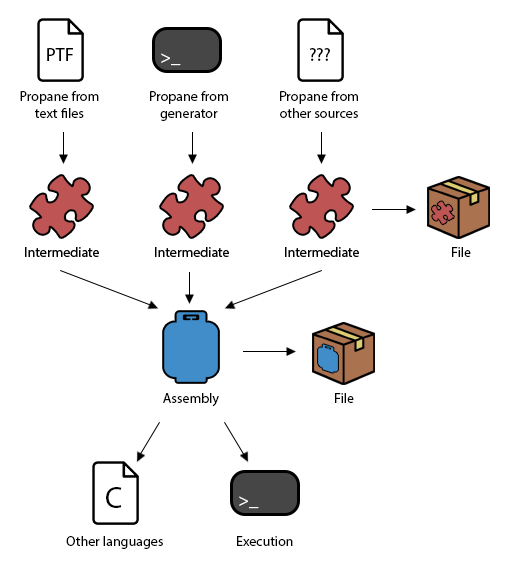
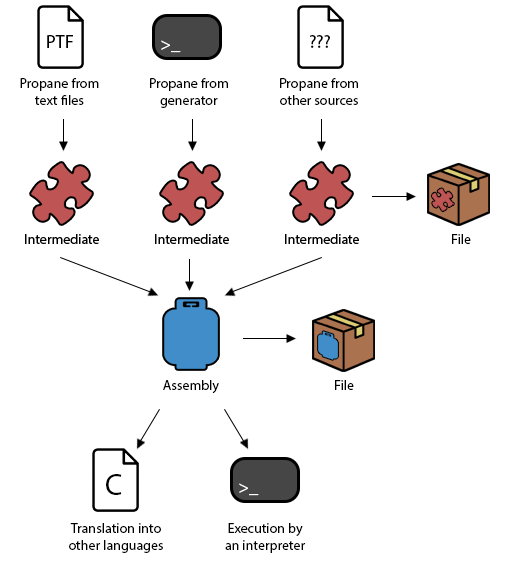
Slight change in readme

diff --git a/README.md b/README.md
@@ -45,7 +45,7 @@ The experimental toolchain is intended to serve as a proof of concept for the in
 
 ![alt text](https://github.com/AggroBird/propane/blob/main/toolchain.png?raw=true "Toolchain Graph Image")
 
-Propane can be parsed from text files or generated by a generator. The resulting intermediate files contain data of defined types/methods and references to declared types/methods. These intermediates can be merged together. The merge implementation is independent, so the merge process between two intermediates can be performed on a seperate thread (at least two intermediates per thread). Additionally, intermediates are implemented as binary blobs, which makes it easy for them to be stored on disk to prevent regeneration of unchanged code.
+Propane can be parsed from text files or generated by a generator. The resulting intermediate files contain data of defined types/methods and references to declared types/methods. These intermediates can be merged together. The merge implementation is independent, so the merge process between two intermediates can be performed on a seperate thread (at least two intermediates per thread). Intermediates are implemented as binary blobs, which makes it easy for them to be stored on disk to prevent regeneration of unchanged code, or stored as a static library for later.
 
 At the end of the merge process, only one intermediate should remain which contains all definitions. Any missing definitions of types/methods will prevent the intermediate to be linked into an assembly. Like intermediates, an assembly is implemented as a binary blob that can be stored on disk as a file.
 
@@ -54,9 +54,9 @@ Assemblies can be fed into a translator to generate other programming languages 
 ## Resources
 
 - [Propane intermediate language specification](LANGUAGE.md)
-- [C++ toolchain example](example.cpp)
+- [C++ toolchain example](example.cpp) C++ example of generating an assembly out of intermediates, and translation to C.
 - [Generator header](include/propane_generator.hpp) Main header required for parsers and compilers.
-- [Runtime header](include/propane_runtime.hpp) Contains assembly data required for cross compilers and interpreters.
+- [Runtime header](include/propane_runtime.hpp) Assembly data required for cross compilers and interpreters.
 - [Experimental C translator](src/translator_c.cpp) Experimental implementation of a Propane assembly to C code generator.
 - [Experimental interpreter](src/interpreter.cpp) Experimental implementation of a Propane assembly interpreter.
 
